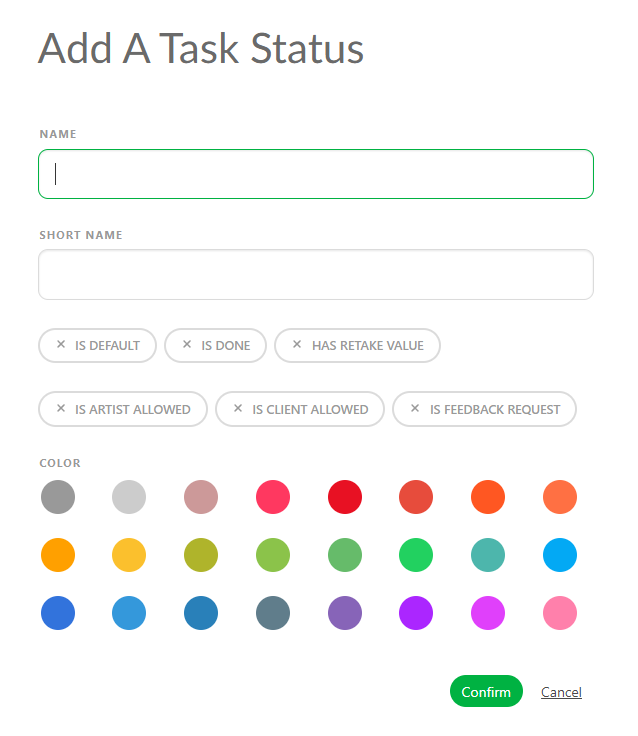
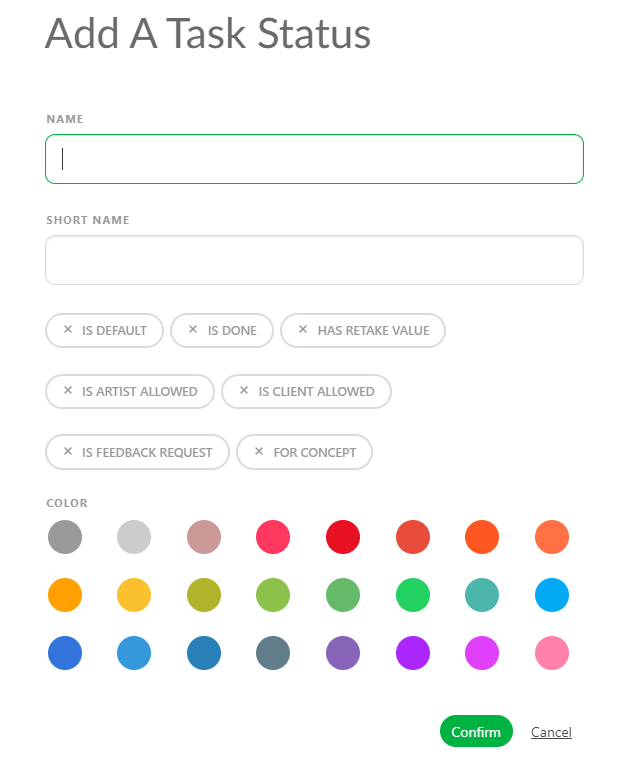
customization pipeline concept

diff --git a/docs/customization-pipeline/README.md b/docs/customization-pipeline/README.md
@@ -120,6 +120,8 @@ On the new pop-up, you can define your personalized task :
 - If this Status is used to comment on a task (useful to keep track of the back and forth in the task type page and for the episode stats page)
 - Can the artist use this Status? If **No** the artist won't see this Status on his list. But he can post on top of it.
 - Can the client use this Status? If **No** the client won't see this Status on his list
+- If this Status is used to ask for a review(useful to keep track of the quotas if you don't use timesheet)
+- Is is a Status dedicated for the Concept
 - Choose a color you like
 
 ![Add Status](../img/getting-started/add_status.png)
